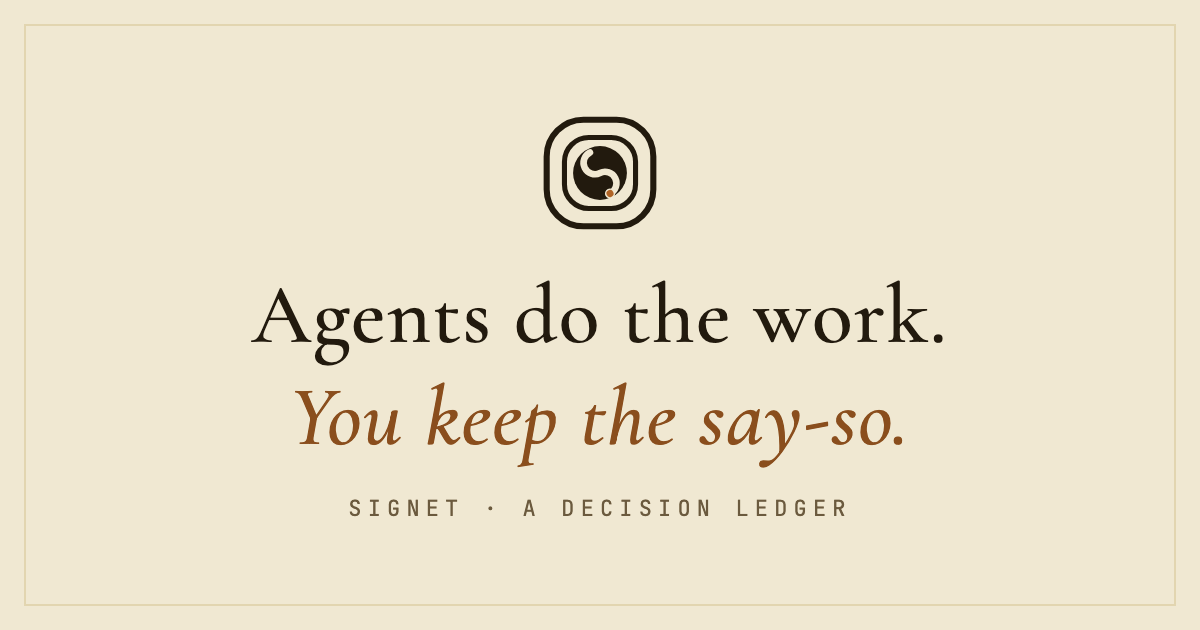
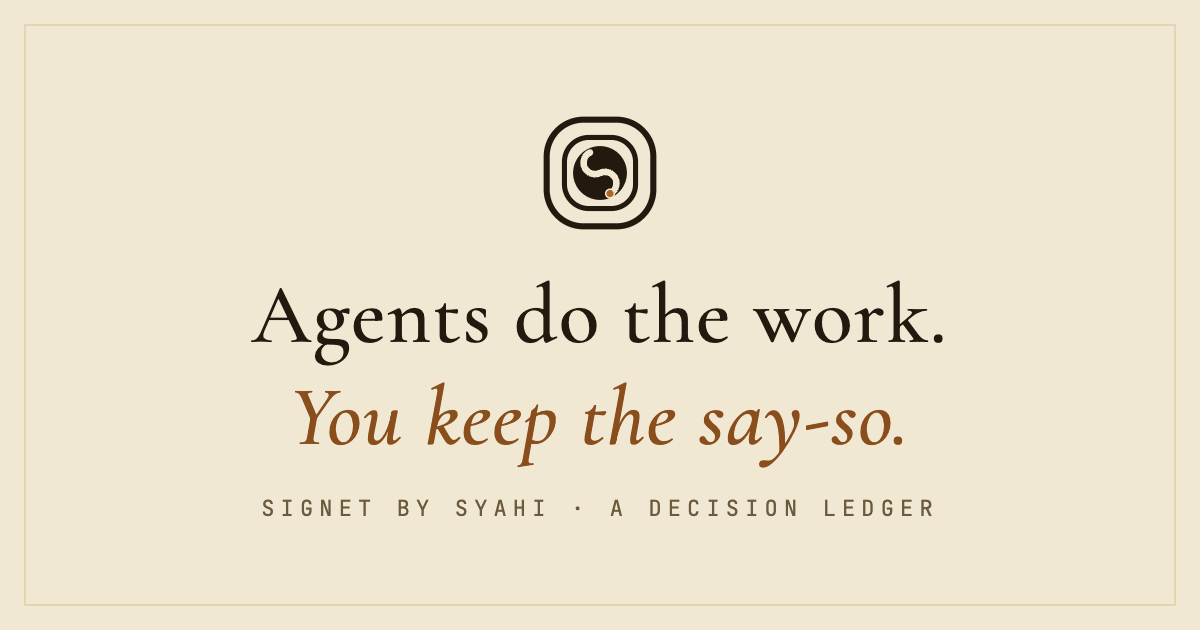
qualify the brand as "Signet by Syahi" (name-collision fix)
Two other products rank above us for "Signet AI agents": Prismer-AI's
Signet and signetai.sh. Decided 2026-09-02: qualify, don't fight.

Title tag, meta description, og:site_name, OG/Twitter tags, and the
header/footer byline ("a Syahi product" -> "by Syahi") all carry
"Signet by Syahi"; og.png regenerated to match.

See syahi-labs/signet#288 and syahi-labs/signet#304

Changed region(s): [[0.2158, 0.7841, 0.7708, 0.8444]]

diff --git a/index.html b/index.html
@@ -3,23 +3,23 @@
 <head>
   <meta charset="utf-8" />
   <meta name="viewport" content="width=device-width, initial-scale=1" />
-  <title>Signet: nothing sends that you didn't verifiably see</title>
-  <meta name="description" content="Signet is the approval layer for AI agents. Your agent drafts, you see the exact words on your phone, one tap approves. What you approved is what goes out." />
+  <title>Signet by Syahi: nothing sends that you didn't verifiably see</title>
+  <meta name="description" content="Signet by Syahi is the decision ledger for personal AI agents. Your agent drafts, you see the exact words on your phone, one tap approves. What you approved is what goes out." />
 
   <meta property="og:type" content="website" />
-  <meta property="og:site_name" content="Signet" />
-  <meta property="og:title" content="Signet: nothing sends that you didn't verifiably see" />
-  <meta property="og:description" content="The approval layer for AI agents. Your agent drafts, you see the exact words, one tap approves. Veto always wins. Every decision leaves a receipt." />
+  <meta property="og:site_name" content="Signet by Syahi" />
+  <meta property="og:title" content="Signet by Syahi — the decision ledger for personal AI agents" />
+  <meta property="og:description" content="The decision ledger for personal AI agents. Your agent drafts, you see the exact words, one tap approves. Veto always wins. Every decision leaves a receipt." />
   <meta property="og:url" content="https://signet.syahi.sh/" />
   <meta property="og:image" content="https://signet.syahi.sh/og.png" />
   <meta property="og:image:width" content="1200" />
   <meta property="og:image:height" content="630" />
-  <meta property="og:image:alt" content="A circular seal mark with a serrated edge and the letter S, above the words: Nothing sends that you didn't verifiably see. Signet, an approval layer for AI agents." />
+  <meta property="og:image:alt" content="A circular seal mark with a serrated edge and the letter S, above the words: Nothing sends that you didn't verifiably see. Signet by Syahi, the decision ledger for personal AI agents." />
   <meta name="twitter:card" content="summary_large_image" />
-  <meta name="twitter:title" content="Signet: nothing sends that you didn't verifiably see" />
-  <meta name="twitter:description" content="The approval layer for AI agents. Your agent drafts, you see the exact words, one tap approves. Veto always wins. Every decision leaves a receipt." />
+  <meta name="twitter:title" content="Signet by Syahi — the decision ledger for personal AI agents" />
+  <meta name="twitter:description" content="The decision ledger for personal AI agents. Your agent drafts, you see the exact words, one tap approves. Veto always wins. Every decision leaves a receipt." />
   <meta name="twitter:image" content="https://signet.syahi.sh/og.png" />
-  <meta name="twitter:image:alt" content="A circular seal mark with a serrated edge and the letter S, above the words: Nothing sends that you didn't verifiably see. Signet, an approval layer for AI agents." />
+  <meta name="twitter:image:alt" content="A circular seal mark with a serrated edge and the letter S, above the words: Nothing sends that you didn't verifiably see. Signet by Syahi, the decision ledger for personal AI agents." />
   <link rel="canonical" href="https://signet.syahi.sh/" />
   <meta name="theme-color" content="#F0E8D2" />
 
@@ -496,7 +496,7 @@
         </svg>
         <span>SIGNET</span>
       </a>
-      <span class="byline">a Syahi product</span>
+      <span class="byline">by Syahi</span>
     </div>
   </header>
 
@@ -850,7 +850,7 @@
         </svg>
         <div>
           <div class="f-name">SIGNET</div>
-          <div class="f-sub">a Syahi product</div>
+          <div class="f-sub">by Syahi</div>
         </div>
       </div>
       <div class="f-meta">
